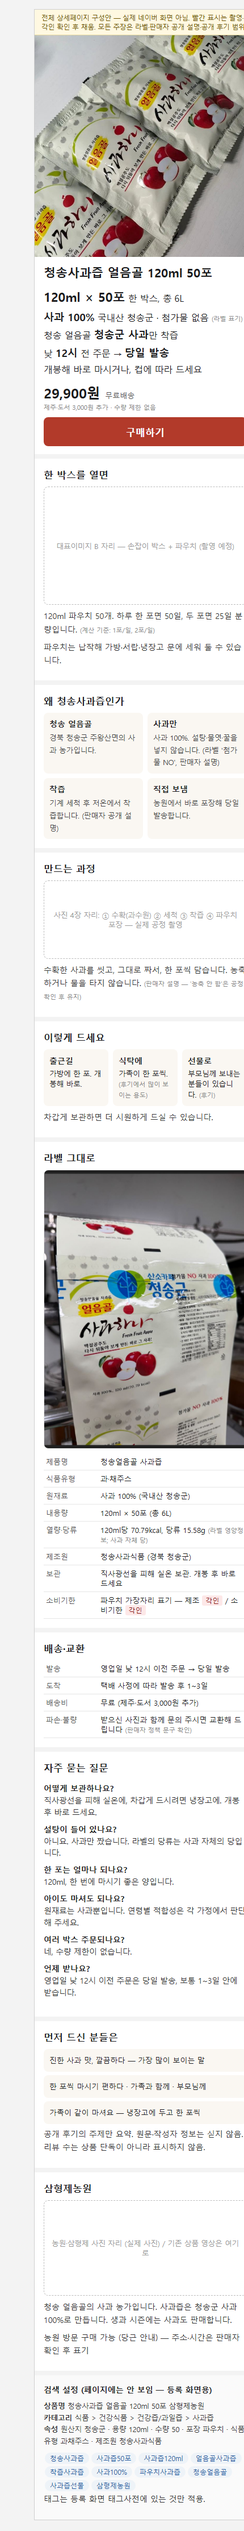
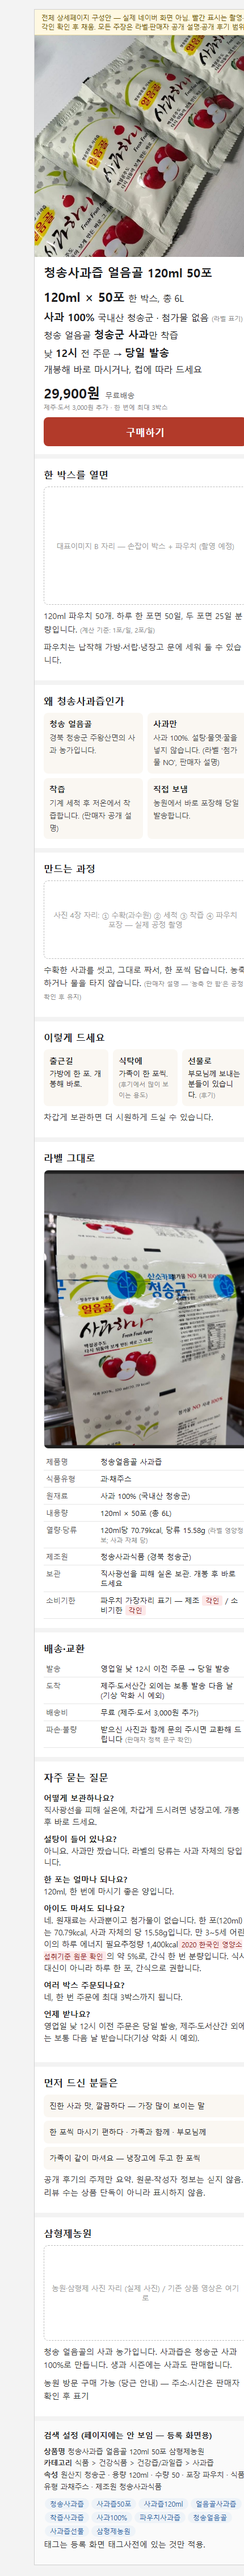
docs(launch): 도착 안내·어린이 FAQ·주문당 최대 3박스 반영
도착을 "제주·도서산간 외 보통 발송 다음 날(기상 악화 예외)"로, 구매 수량을 한 번 주문에
최대 3박스로 바꿨다. 어린이 FAQ는 회피 문구 대신 라벨 수치와 공식 영양소 섭취기준 대비
비율로 설명하되, 기준값은 원문 확인 전이라 표시해 두었다.

Changed region(s): [[0.1209, 0.0, 1.0, 0.874], [0.1814, 0.9052, 0.9674, 0.9989], [0.514, 0.3121, 0.5442, 0.3434]]

diff --git a/result/juice_detail_page_2026-11-04.html b/result/juice_detail_page_2026-11-04.html
@@ -42,7 +42,7 @@ table{width:100%;border-collapse:collapse;font-size:13px} td{padding:6px 4px;bor
 <li>개봉해 바로 마시거나, 컵에 따라 드세요</li>
 </ul>
 <div class="price">29,900원 <small>무료배송</small></div>
-<div class="src">제주·도서 3,000원 추가 · 수량 제한 없음</div>
+<div class="src">제주·도서 3,000원 추가 · 한 번에 최대 3박스</div>
 <a class="btn">구매하기</a>
 </div>
 
@@ -87,7 +87,7 @@ table{width:100%;border-collapse:collapse;font-size:13px} td{padding:6px 4px;bor
 <div class="sec"><h2>배송·교환</h2>
 <table>
 <tr><td>발송</td><td>영업일 낮 12시 이전 주문 → 당일 발송</td></tr>
-<tr><td>도착</td><td>택배 사정에 따라 발송 후 1~3일</td></tr>
+<tr><td>도착</td><td>제주·도서산간 외에는 보통 발송 다음 날 (기상 악화 시 예외)</td></tr>
 <tr><td>배송비</td><td>무료 (제주·도서 3,000원 추가)</td></tr>
 <tr><td>파손·불량</td><td>받으신 사진과 함께 문의 주시면 교환해 드립니다 <span class="src">(판매자 정책 문구 확인)</span></td></tr>
 </table></div>
@@ -97,9 +97,9 @@ table{width:100%;border-collapse:collapse;font-size:13px} td{padding:6px 4px;bor
 <dt>어떻게 보관하나요?</dt><dd>직사광선을 피해 실온에, 차갑게 드시려면 냉장고에. 개봉 후 바로 드세요.</dd>
 <dt>설탕이 들어 있나요?</dt><dd>아니요. 사과만 짰습니다. 라벨의 당류는 사과 자체의 당입니다.</dd>
 <dt>한 포는 얼마나 되나요?</dt><dd>120ml, 한 번에 마시기 좋은 양입니다.</dd>
-<dt>아이도 마셔도 되나요?</dt><dd>원재료는 사과뿐입니다. 연령별 적합성은 각 가정에서 판단해 주세요.</dd>
-<dt>여러 박스 주문되나요?</dt><dd>네, 수량 제한이 없습니다.</dd>
-<dt>언제 받나요?</dt><dd>영업일 낮 12시 이전 주문은 당일 발송, 보통 1~3일 안에 받습니다.</dd>
+<dt>아이도 마셔도 되나요?</dt><dd>네. 원재료는 사과뿐이고 첨가물이 없습니다. 한 포(120ml)는 70.79kcal, 사과 자체의 당 15.58g입니다. 만 3~5세 어린이의 하루 에너지 필요추정량 1,400kcal<span class="todo">2020 한국인 영양소 섭취기준 원문 확인</span>의 약 5%로, 간식 한 번 분량입니다. 식사 대신이 아니라 하루 한 포, 간식으로 권합니다.</dd>
+<dt>여러 박스 주문되나요?</dt><dd>네, 한 번 주문에 최대 3박스까지 됩니다.</dd>
+<dt>언제 받나요?</dt><dd>영업일 낮 12시 이전 주문은 당일 발송, 제주·도서산간 외에는 보통 다음 날 받습니다(기상 악화 시 예외).</dd>
 </dl></div>
 
 <div class="sec"><h2>먼저 드신 분들은</h2>

diff --git a/result/juice_detail_long_2026-11-04.html b/result/juice_detail_long_2026-11-04.html
@@ -107,9 +107,9 @@ section{width:860px}
   <div class="cap"><span class="n">10</span><h2>배송 · 교환</h2></div>
   <table class="lab">
     <tr><th>발송</th><td>영업일 낮 12시 이전 주문 → 당일 발송</td></tr>
-    <tr><th>도착</th><td>발송 후 보통 1~3일 (택배 사정에 따라 다름)</td></tr>
+    <tr><th>도착</th><td>제주·도서산간 외 지역은 보통 <b>발송 다음 날</b> 도착 (기상 악화 시 예외)</td></tr>
     <tr><th>배송비</th><td>무료 · 제주·도서 3,000원 추가</td></tr>
-    <tr><th>수량</th><td>제한 없음. 여러 박스·선물 주문 가능</td></tr>
+    <tr><th>수량</th><td>한 번 주문에 최대 3박스</td></tr>
     <tr><th>파손·불량</th><td>받으신 사진과 함께 톡톡으로 문의 주시면 교환해 드립니다</td></tr>
   </table>
 </section>
@@ -119,9 +119,9 @@ section{width:860px}
     <dt>어떻게 보관하나요?</dt><dd>직사광선을 피해 실온에 두시고, 차갑게 드시려면 냉장고에 넣어 두세요. 개봉 후에는 바로 드세요.</dd>
     <dt>설탕이 들어 있나요?</dt><dd>아니요. 사과만 짰습니다. 라벨의 당류는 사과 자체의 당입니다.</dd>
     <dt>한 포는 얼마나 되나요?</dt><dd>120ml, 한 번에 마시기 좋은 양입니다.</dd>
-    <dt>아이도 마셔도 되나요?</dt><dd>원재료는 사과뿐입니다. 연령별 적합성은 각 가정에서 판단해 주세요.</dd>
-    <dt>여러 박스 주문되나요?</dt><dd>네, 수량 제한이 없습니다.</dd>
-    <dt>언제 받나요?</dt><dd>영업일 낮 12시 이전 주문은 당일 발송, 보통 1~3일 안에 받습니다.</dd>
+    <dt>아이도 마셔도 되나요?</dt><dd>네. 원재료는 사과뿐이고 첨가물이 없습니다. 한 포(120ml)는 70.79kcal, 사과 자체의 당 15.58g입니다. 만 3~5세 어린이의 하루 에너지 필요추정량 1,400kcal<span class="todo">2020 한국인 영양소 섭취기준 원문 확인</span>의 약 5%로, 간식 한 번 분량입니다. 식사 대신이 아니라 하루 한 포, 간식으로 권합니다.</dd>
+    <dt>여러 박스 주문되나요?</dt><dd>네, 한 번 주문에 최대 3박스까지 됩니다.</dd>
+    <dt>언제 받나요?</dt><dd>영업일 낮 12시 이전 주문은 당일 발송, 제주·도서산간 외에는 보통 다음 날 받습니다(기상 악화 시 예외).</dd>
   </dl>
 </section>
 <section class="block last">

diff --git a/result/juice_page_layout_2026-11-04.html b/result/juice_page_layout_2026-11-04.html
@@ -76,7 +76,7 @@
           <li>개봉해 바로 마시거나, 컵에 따라 드세요</li>
         </ul>
         <div class="price">29,900원 <small>무료배송</small></div>
-        <div class="total">제주/도서 3,000원 추가 · 수량 제한 없음</div>
+        <div class="total">제주/도서 3,000원 추가 · 한 번에 최대 3박스</div>
         <a class="btn">구매하기</a>
       </div>
 
@@ -106,7 +106,7 @@
           <dt>어떻게 보관하나요?</dt>
           <dd>실온 보관, 차갑게 드시려면 냉장고에. 개봉 후 바로 드세요.</dd>
           <dt>언제 받나요?</dt>
-          <dd>영업일 낮 12시 이전 주문은 당일 발송, 택배 사정에 따라 1~3일 걸립니다.</dd>
+          <dd>영업일 낮 12시 이전 주문은 당일 발송, 제주·도서산간 외에는 보통 다음 날 받습니다(기상 악화 시 예외).</dd>
         </dl>
       </div>
 

diff --git a/result/juice_seo_listing_2026-11-04.md b/result/juice_seo_listing_2026-11-04.md
@@ -27,7 +27,7 @@
 | 속성 | 원산지 청송군 · 용량 120ml · 수량 50 · 포장 파우치 · 식품유형 과채주스 · 제조원 청송사과식품 · 브랜드 삼형제농원 | 필터 검색 노출. 현재 광고 카탈로그 브랜드/제조사 '미입력' 해소 |
 | 태그(후보 10) | 청송사과즙 · 사과즙50포 · 사과즙120ml · 얼음골사과즙 · 착즙사과즙 · 사과100% · 파우치사과즙 · 청송얼음골 · 사과즙선물 · 삼형제농원 | 상품명에 못 넣은 미들·롱테일. **태그사전에 있는 것만** 등록 |
 | 판매가·배송 | **29,900원 · 무료배송** (배송비를 상품가에 포함, #93) · 제주·도서 3,000원 추가(#95) | 총액 하나만 보여 이탈 방지 |
-| 구매 수량 | 1인 1개 제한 해제 | 재고 제한 없음. 복수 박스·선물 주문 가능 |
+| 구매 수량 | **한 번 주문에 최대 3박스** (1인 1개 제한 → 주문당 3개, #96) | 발송 가능 수량 기준 |
 | 상품정보 날짜 | 제조일·소비기한을 파우치 각인 값으로, 유효일 필드와 일치 | 신뢰도. 현재 1/1·12/31 기본값과 11시/12시 충돌 제거 |
 | 배송 안내 | 낮 12시 이전 주문 당일 발송 | 구조화 안내(11시)·당근(11시)도 12시로 통일 |
 | 대표이미지 | A 파우치 정면(글자 없음, 정사각) → 시험 후 B | 클릭률. 썸네일에서 '사과즙·50포'가 읽히게 |
@@ -43,7 +43,7 @@
 | 4 | 쇼핑검색광고 입찰 100→150원 (노출 부족 확인 시) | 광고주센터 | 광고 노출 | 승인 후. 단가 계산 안 함(#91) |
 | 5 | 리뷰 안내문 동봉: "받으신 모습 그대로 후기를 남겨 주세요" + 스토어 QR | 포장 | 인기도(리뷰) | 문구 아래 |
 | 6 | 네이버 리뷰 이벤트(스토어 공식 기능) 설정 — 포인트 지급형 | 스마트스토어센터 | 리뷰 수 | 공식 기능만. 외부 대가 리뷰 금지 |
-| 7 | 당근 소식 1건: 네이버 스토어 링크 + 12시 당일 발송 + 수량 제한 없음 | 당근 업체 | 기존 단골 985명 → 스토어 유입 | 문구 아래 |
+| 7 | 당근 소식 1건: 네이버 스토어 링크 + 12시 당일 발송 + 한 번에 최대 3박스 | 당근 업체 | 기존 단골 985명 → 스토어 유입 | 문구 아래 |
 | 8 | 쇼핑스토리/숏클립 1편: 만드는 과정 4장면 | 스마트스토어 | 콘텐츠 탭 노출 | 공정 사진·영상 후 |
 | 9 | 톡톡 알림받기 고객에게 출시 소식 1회 | 스마트스토어 | 재구매 | 동의 고객만 |
 | 10 | 생과 상품 상세에 "같은 사과로 만든 사과즙" 링크 | 스마트스토어 | 교차 유입 | 생과 재판매 시 |
@@ -58,7 +58,7 @@
 > 삼형제농원 청송사과즙을 받아 주셔서 고맙습니다. 받으신 모습 그대로 후기를 남겨 주시면 다음 분께 큰 도움이 됩니다. [스토어 QR] — 문의는 톡톡으로.
 
 **당근 소식**
-> 청송사과즙 120ml 50포, 네이버 스토어에서 주문하실 수 있습니다. 낮 12시 전 주문은 당일 발송, 수량 제한 없이 여러 박스 주문 가능합니다. 사과 100%, 첨가물 없음, 무료배송. [스토어 링크]
+> 청송사과즙 120ml 50포, 네이버 스토어에서 주문하실 수 있습니다. 낮 12시 전 주문은 당일 발송, 제주·도서산간 외에는 보통 다음 날 도착, 한 번에 최대 3박스까지 주문됩니다. 사과 100%, 첨가물 없음, 무료배송. [스토어 링크]
 
 **광고 확장소재** C1: `가방에 쏙 청송사과즙` / `출근 가방에 쏙, 청송사과즙 120ml 50포`
 

diff --git a/result/juice_direction_report_2026-11-04.md b/result/juice_direction_report_2026-11-04.md
@@ -23,7 +23,9 @@
 | D1 | 상품명 `청송사과즙 얼음골 120ml 50포 삼형제농원` | '청송사과' 필수, 구성·산지·판매자. '사과하나'는 타사 상품명 사용 확인(10/29)이라 제외 | 10/29·11/4 |
 | D2 | 광고 제목은 당분간 유지 | 10/28 변경 후 실적 회수 전 재변경 금지. 여러 요소를 한 번에 바꾸면 효과를 못 가림 | 10/28 |
 | D3 | 가격 29,900원 무료배송 | 24,900+배송비 5,000과 총액은 같으나 "무료배송"이 카드에서 더 단순 | 11/4 (#93) |
-| D4 | 1인 1개 제한 해제 | 재고 제한 없음. 복수·선물 주문 막을 이유 없음 | 11/4 (#87·#91) |
+| D4 | 구매 수량: 한 번 주문에 최대 3박스 (1인 1개 제한 해제, 발송 가능 수량 기준) | 재고 제한 없음. 복수·선물 주문 가능. 3박스는 한 번에 발송 가능한 수량 | 11/4 (#87·#91·#96) |
+| D13 | 도착 안내: 제주·도서산간 외 보통 발송 다음 날(기상 악화 예외) | 판매자 운영 기준. "1~3일"보다 구체적 | 11/4 (#96) |
+| D14 | 어린이 FAQ는 라벨 수치(70.79kcal·당류 15.58g)와 공식 영양소 섭취기준 대비 비율로 설명 | "각 가정에서 판단" 식 회피 문구 대신 사실 기반. 효능 표현은 여전히 금지. 1,400kcal 기준값은 공식 원문 확인 후 확정 | 11/4 (#96) |
 | D5 | 출고 마감 12시로 통일 | 현재 구조화 안내 11시·상세 12시·당근 11시로 제각각. 실제 운영은 12시 | 11/4 (#87) |
 | D6 | **"직접 재배·직접 키운·다른 데서 사과를 사지 않는다" 표현 전면 삭제** | 부족하면 사과를 매입한다. 사실과 다른 표현은 법적 위험. 산지 표현은 라벨대로 "국내산 청송군 사과 100%" | 11/4 (#93) |
 | D7 | **아쉬운 점·단점 서술 삭제** | 상세페이지는 제품을 좋게 보여 주는 자리. 단점 서술은 몰입을 깨고 구매를 막음 | 11/4 (#93) |

diff --git a/README.md b/README.md
@@ -9,7 +9,7 @@
 | 누가 | 네이버에서 **사과즙·청송사과즙**을 검색하는 사람 |
 | 어디서 | 네이버 통합검색 모바일 광고 카드 → 상품 페이지 (과거 클릭·전환이 모인 화면) |
 | 무엇으로 | 사진에서 "사과즙·50포"가 바로 읽히고, 첫 화면 5줄(120ml×50포 / 청송군 사과 100%·첨가물 없음 / 착즙 / 12시 당일 발송 / 29,900원 무료배송)에서 구매까지 |
-| 가격 | **29,900원 무료배송** (배송비를 상품가에 포함, 제주·도서 3,000원 추가), 1인 1개 제한 해제 |
+| 가격 | **29,900원 무료배송** (배송비를 상품가에 포함, 제주·도서 3,000원 추가), 한 번 주문에 최대 3박스 |
 | 쓰지 않는 표현 | 직접 재배·직접 키운·남의 사과 안 씀(사실과 다를 수 있어 법적 위험), 최저가, 효능·NFC·당도, 아쉬운 점·단점 서술 |
 | 하지 않는 것 | 클릭·검색 작업, 리워드, 가짜 주문/리뷰, 반복 클릭, 계정 분산 (계정 정지 위험) |
 
